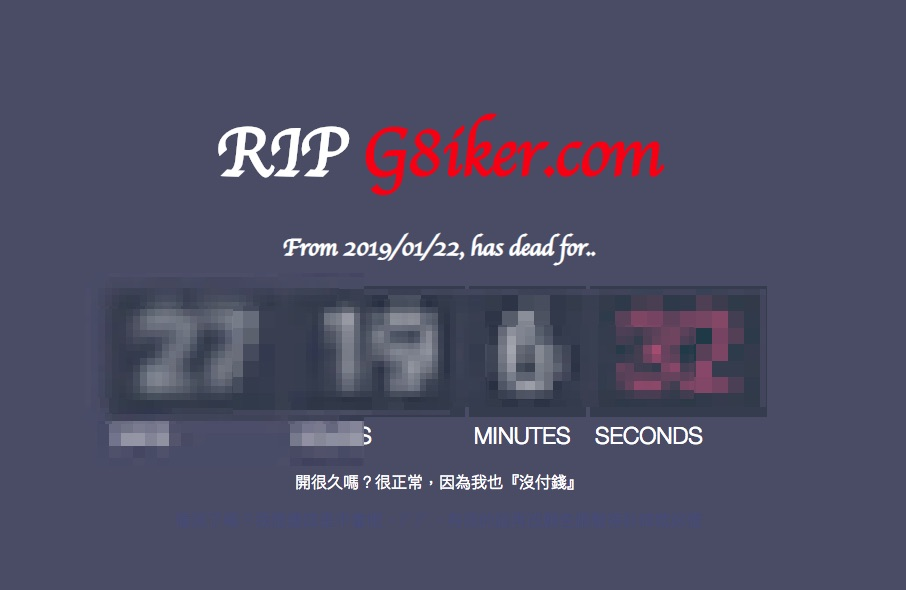
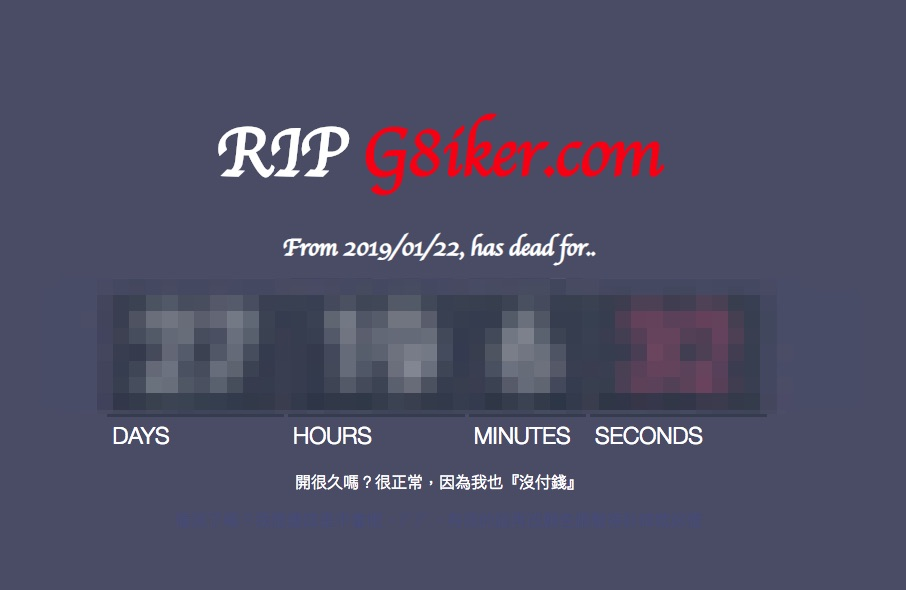
Updates

diff --git a/static/css/main.279497ad.chunk.css b/static/css/main.279497ad.chunk.css
@@ -1,0 +1,2 @@
+#fh-addcal{display:block;color:#fff;height:35px;line-height:35px;margin-bottom:10px;padding-left:40px;background:#78a600 url(//c.tadst.com/gfx/n/i/ical-save.png) 0 no-repeat;font-size:13px;width:100%}.font-serif{font-family:Playfair Display,serif;font-size:63px}.font-cursive{font-family:Lobster Two,cursive}.font-sanserif{font-family:Roboto,sans-serif;font-size:63px}.font-slab{font-family:Roboto Slab,serif;font-size:63px}.font-hand{font-family:Lobster Two,cursive}.csvg{position:relative;background:#f8f8f8}.csvg.fullscreen{position:fixed;top:0;left:0;width:100%;height:100%;z-index:2000}.csvg.fullscreen .csvg-background{height:100%;background-size:contain;background-color:#444}.csvg.fullscreen .csvg-controls .icon-fullscreen.close{display:block}.csvg.fullscreen .csvg-controls .icon-fullscreen.open{display:none}.csvg-counters{display:-webkit-flex;display:flex;-webkit-justify-content:space-between;justify-content:space-between}.csvg-background{width:100%;padding-top:35%;position:relative}.csvg-background img,.csvg-background svg{position:absolute;top:0;left:0;width:100%;height:auto}.csvg-background svg{height:100%}.csvg-background img,.csvg-countdown{bottom:0;margin:auto}.csvg-countdown{position:absolute;top:0;left:0;height:366px;width:100%;text-align:center;color:#fff;-webkit-animation-duration:1s;animation-duration:1s;-webkit-animation-fill-mode:both;animation-fill-mode:both;-webkit-animation-name:fadeIn;animation-name:fadeIn}.csvg-digit{display:-moz-inline-stack;display:inline-block;vertical-align:center;*vertical-align:auto;zoom:1;*display:inline;margin-right:4px}.csvg-digit-number{font-size:107px;padding:3px 29px;background:#38414a;background:rgba(40,50,61,.62);font-family:Roboto,sans-serif;font-weight:300}.csvg-digit[data-tad-bind=seconds] .csvg-digit-number{color:#ee5486}.csvg-digit-label{padding:5px;font-size:23px;text-align:left;text-transform:uppercase}.csvg-title.long{font-size:50px}.csvg-date{font-family:Roboto,sans-serif;font-weight:300;font-size:18px;margin-top:10px;color:#fff;letter-spacing:.5px}.csvg-date a{color:#f8eab9}.csvg.completed .csvg-date span[data-type=until]{color:red}.csvg-controls{position:absolute;top:50px;left:44px;width:56px;height:56px;border-radius:50%;overflow:hidden;z-index:1;background:#ee5486;box-shadow:0 2px 2px 0 rgba(0,0,0,.2);cursor:pointer}.csvg-controls a{display:block;color:#fff}.csvg-controls i{width:100%;height:56px;display:block;background:url(//c.tadst.com/gfx/cd/menu-spr.png) 0 -336px no-repeat #ee5486;z-index:1}.csvg-controls .menu a{color:#454545;position:relative;display:block;padding:20px 0 20px 56px;font-size:16px;font-family:Roboto,sans-serif}.csvg-controls .menu a:before{content:"";width:56px;height:56px;background:url(//c.tadst.com/gfx/cd/menu-spr.png) no-repeat;top:0;left:0;position:absolute}.csvg-controls .menu a:hover{background-color:rgba(0,0,0,.05);text-decoration:none}.csvg-controls .menu .icon-fullscreen:before{background-position:0 0}.csvg-controls .menu .icon-world:before{background-position:0 -56px}.csvg-controls .menu .icon-text:before{background-position:0 -112px}.csvg-controls .menu .icon-demo:before{background-position:0 -168px}.csvg-controls .menu .icon-new:before{background-position:0 -224px}.csvg-controls .menu .icon-edit:before{background-position:0 -280px}.csvg-controls .menu .icon-demo,.csvg-controls .menu .icon-fullscreen.close{display:none}.csvg-controls.show{-webkit-transition:height .2s ease-in,width .2s ease-in,background-color .8s ease-in;transition:height .2s ease-in,width .2s ease-in,background-color .8s ease-in;border-radius:0;background:#fff;width:235px;height:359px;border-bottom:8px solid #ee5486}.csvg-controls.show .menu{display:block}.csvg.hassvg .csvg-controls.show{height:418px}.csvg.hassvg .csvg-controls .icon-demo{display:block}.csvg-controls.show i{-webkit-animation-name:none;animation-name:none}.bg-sect{border-bottom:1px dotted #ccc;background-color:#f8f8f8}#disclaimer{background:#f8f8f8;padding:5px 0;text-align:center}@media only screen and (max-width:64em){.csvg-countdown{height:209px}.csvg-title{font-size:40px}.csvg-title.long{font-size:30px}.csvg-digit-number{font-size:50px}.csvg-digit-label{font-size:12px}}@media only screen and (max-width:37.438em){#disclaimer{padding-top:24px}#disclaimer p{margin:0}#disclaimer p a{display:block}.csvg{padding-top:40px}h1.csvg-title{font-size:50px}.csvg-title.long{font-size:16px}.csvg-date{color:#000;margin-top:0;font-size:12px;display:none}.csvg-date a{color:#556bb5}.csvg-countdown{-webkit-transform:none;transform:none;color:#fff;z-index:1}.csvg-controls{top:0;left:0;width:100%;height:40px;background:#ee5486;border-radius:0;z-index:0}.csvg-controls i{background-position:0 -344px;height:40px}.csvg-controls .menu a{height:40px;padding:12px 0 12px 56px}.csvg-controls .menu a:before{content:"";width:56px;height:40px;margin-top:-8px}.csvg-controls.show{width:100%;height:288px;z-index:1}.csvg-digit{width:25%;margin:0}.hasWeeks .csvg-digit{width:20%;margin:0}.csvg-digit-number{font-size:12vw;padding:3px 4px;background:rgba(40,50,61,.8)}.csvg-digit-label{font-size:12px;text-align:center;color:#000}.csvg-usermsg{color:#000;margin-bottom:5px}.csvg.fullscreen{background:#444}.csvg.fullscreen .csvg-background{position:relative;bottom:auto;height:auto}.csvg.fullscreen .csvg-background img{bottom:auto}.csvg.fullscreen .csvg-date,.csvg.fullscreen .csvg-digit-label,.csvg.fullscreen .csvg-usermsg{color:#fff}.generic .csvg-digit{margin-top:25px}.generic .csvg-countdown{position:absolute;height:auto;margin-top:40px}.generic h1.csvg-title{margin-top:-40px}.generic .csvg-digit-number{background:rgba(40,50,61,.28)}.generic .csvg-date,.generic .csvg-digit-label{color:#fff}.generic .csvg-date a{color:#f8eab9}.generic .csvg-controls.show{z-index:10}.csvg-counters{-webkit-flex-direction:column;flex-direction:column}}.csvg-el__wrap{color:#454545;-webkit-flex-grow:0;flex-grow:0;font-size:24px;padding-left:64px;margin-left:64px;border-left:1px solid #ccc}@media only screen and (min-width:64.063em) and (max-width:90em){.csvg-el__wrap{font-size:22px}}@media only screen and (max-width:64em){.csvg-el__wrap{font-size:18px}}#el_s2{color:#ee5486}.el-item{margin-bottom:12px;white-space:nowrap}.el-item__data{font-weight:700;margin-right:6px}.plain-text .csvg-digit-number{font-size:80px}@media only screen and (min-width:37.5em) and (max-width:64em){.plain-text .csvg-digit-number{font-size:6s0px}}.plain-text .csvg-date,.plain-text .csvg-digit-label,.plain-text .csvg-digit-number,.plain-text .csvg-title{color:#454545;background:none}@media only screen and (min-width:64.063em) and (max-width:90em){.christmas .csvg-date,.christmas .csvg-digit-label{color:#777}.wedding .csvg-digit-label{color:#444}.wedding #el_s1t{color:#c3748e}}@media only screen and (min-width:37.5em) and (max-width:64em){.christmas .csvg-date,.christmas .csvg-digit-label{color:#777}.wedding .csvg-digit-label{color:#444}.wedding #el_s1t{color:#c3748e}}.american-football .csvg-date,.american-football .csvg-digit-label,.basketball .csvg-date,.basketball .csvg-digit-label,.football .csvg-date,.football .csvg-digit-label,.party .csvg-date,.retirement .csvg-date{color:#555}@media only screen and (min-width:90.063em){.election .csvg-date{color:#777}}.csvg-title{font-size:70px;margin:0 auto;overflow:hidden;text-overflow:ellipsis;white-space:nowrap;color:#fff;border:none}body{font-family:HelveticaNeue-Light,Helvetica Neue Light,Helvetica Neue,Helvetica,Arial,Lucida Grande,sans-serif;font-weight:300;font-size:16px;margin:0;padding:0;background:#494c66}.is-alive{color:#434979}a{text-decoration:none;color:red;font-weight:700}img{max-width:100%}nav{width:100%;background:#108db8}nav a{color:#fff;display:inline-block}.content,nav a{padding:1rem}.csvg-seconds{width:38%!important}
+/*# sourceMappingURL=main.279497ad.chunk.css.map */

diff --git a/index.html b/index.html
@@ -1,1 +1,1 @@
-<!doctype html><html lang="en"><head><meta charset="utf-8"/><link rel="shortcut icon" href="/favicon.ico"/><meta name="viewport" content="width=device-width,initial-scale=1,shrink-to-fit=no"/><meta name="theme-color" content="#000000"/><link rel="manifest" href="/manifest.json"/><meta property="og:image" content="https://rip-g8iker.com/screenshot.jpg"/><title>RIP G8iker.com</title><link href="/static/css/main.8d2e15a6.chunk.css" rel="stylesheet"></head><body><noscript>You need to enable JavaScript to run this app.</noscript><a href="https://github.com/zackexplosion/rip-g8iker.com" class="github-corner" aria-label="View source on GitHub"><svg width="80" height="80" viewBox="0 0 250 250" style="fill:#fff;color:#151513;position:absolute;top:0;border:0;right:0" aria-hidden="true"><path d="M0,0 L115,115 L130,115 L142,142 L250,250 L250,0 Z"></path><path d="M128.3,109.0 C113.8,99.7 119.0,89.6 119.0,89.6 C122.0,82.7 120.5,78.6 120.5,78.6 C119.2,72.0 123.4,76.3 123.4,76.3 C127.3,80.9 125.5,87.3 125.5,87.3 C122.9,97.6 130.6,101.9 134.4,103.2" fill="currentColor" style="transform-origin:130px 106px" class="octo-arm"></path><path d="M115.0,115.0 C114.9,115.1 118.7,116.5 119.8,115.4 L133.7,101.6 C136.9,99.2 139.9,98.4 142.2,98.6 C133.8,88.0 127.5,74.4 143.8,58.0 C148.5,53.4 154.0,51.2 159.7,51.0 C160.3,49.4 163.2,43.6 171.4,40.1 C171.4,40.1 176.1,42.5 178.8,56.2 C183.1,58.6 187.2,61.8 190.9,65.4 C194.5,69.0 197.7,73.2 200.1,77.6 C213.8,80.2 216.3,84.9 216.3,84.9 C212.7,93.1 206.9,96.0 205.4,96.6 C205.1,102.4 203.0,107.8 198.3,112.5 C181.9,128.9 168.3,122.5 157.7,114.1 C157.9,116.9 156.7,120.9 152.7,124.9 L141.0,136.5 C139.8,137.7 141.6,141.9 141.8,141.8 Z" fill="currentColor" class="octo-body"></path></svg></a><style>.github-corner:hover .octo-arm{animation:octocat-wave 560ms ease-in-out}@keyframes octocat-wave{0%,100%{transform:rotate(0)}20%,60%{transform:rotate(-25deg)}40%,80%{transform:rotate(10deg)}}@media (max-width:500px){.github-corner:hover .octo-arm{animation:none}.github-corner .octo-arm{animation:octocat-wave 560ms ease-in-out}}</style><div id="root"></div><script>!function(l){function e(e){for(var r,t,n=e[0],o=e[1],u=e[2],f=0,i=[];f<n.length;f++)t=n[f],p[t]&&i.push(p[t][0]),p[t]=0;for(r in o)Object.prototype.hasOwnProperty.call(o,r)&&(l[r]=o[r]);for(s&&s(e);i.length;)i.shift()();return c.push.apply(c,u||[]),a()}function a(){for(var e,r=0;r<c.length;r++){for(var t=c[r],n=!0,o=1;o<t.length;o++){var u=t[o];0!==p[u]&&(n=!1)}n&&(c.splice(r--,1),e=f(f.s=t[0]))}return e}var t={},p={1:0},c=[];function f(e){if(t[e])return t[e].exports;var r=t[e]={i:e,l:!1,exports:{}};return l[e].call(r.exports,r,r.exports,f),r.l=!0,r.exports}f.m=l,f.c=t,f.d=function(e,r,t){f.o(e,r)||Object.defineProperty(e,r,{enumerable:!0,get:t})},f.r=function(e){"undefined"!=typeof Symbol&&Symbol.toStringTag&&Object.defineProperty(e,Symbol.toStringTag,{value:"Module"}),Object.defineProperty(e,"__esModule",{value:!0})},f.t=function(r,e){if(1&e&&(r=f(r)),8&e)return r;if(4&e&&"object"==typeof r&&r&&r.__esModule)return r;var t=Object.create(null);if(f.r(t),Object.defineProperty(t,"default",{enumerable:!0,value:r}),2&e&&"string"!=typeof r)for(var n in r)f.d(t,n,function(e){return r[e]}.bind(null,n));return t},f.n=function(e){var r=e&&e.__esModule?function(){return e.default}:function(){return e};return f.d(r,"a",r),r},f.o=function(e,r){return Object.prototype.hasOwnProperty.call(e,r)},f.p="/";var r=window.webpackJsonp=window.webpackJsonp||[],n=r.push.bind(r);r.push=e,r=r.slice();for(var o=0;o<r.length;o++)e(r[o]);var s=n;a()}([])</script><script src="/static/js/2.063ce5bc.chunk.js"></script><script src="/static/js/main.675c7077.chunk.js"></script></body></html>
+<!doctype html><html lang="en"><head><meta charset="utf-8"/><link rel="shortcut icon" href="/favicon.ico"/><meta name="viewport" content="width=device-width,initial-scale=1,shrink-to-fit=no"/><meta name="theme-color" content="#000000"/><link rel="manifest" href="/manifest.json"/><meta property="og:image" content="https://rip-g8iker.com/screenshot.jpg"/><title>RIP G8iker.com</title><link href="/static/css/main.279497ad.chunk.css" rel="stylesheet"></head><body><noscript>You need to enable JavaScript to run this app.</noscript><a href="https://github.com/zackexplosion/rip-g8iker.com" class="github-corner" aria-label="View source on GitHub"><svg width="80" height="80" viewBox="0 0 250 250" style="fill:#fff;color:#151513;position:absolute;top:0;border:0;right:0" aria-hidden="true"><path d="M0,0 L115,115 L130,115 L142,142 L250,250 L250,0 Z"></path><path d="M128.3,109.0 C113.8,99.7 119.0,89.6 119.0,89.6 C122.0,82.7 120.5,78.6 120.5,78.6 C119.2,72.0 123.4,76.3 123.4,76.3 C127.3,80.9 125.5,87.3 125.5,87.3 C122.9,97.6 130.6,101.9 134.4,103.2" fill="currentColor" style="transform-origin:130px 106px" class="octo-arm"></path><path d="M115.0,115.0 C114.9,115.1 118.7,116.5 119.8,115.4 L133.7,101.6 C136.9,99.2 139.9,98.4 142.2,98.6 C133.8,88.0 127.5,74.4 143.8,58.0 C148.5,53.4 154.0,51.2 159.7,51.0 C160.3,49.4 163.2,43.6 171.4,40.1 C171.4,40.1 176.1,42.5 178.8,56.2 C183.1,58.6 187.2,61.8 190.9,65.4 C194.5,69.0 197.7,73.2 200.1,77.6 C213.8,80.2 216.3,84.9 216.3,84.9 C212.7,93.1 206.9,96.0 205.4,96.6 C205.1,102.4 203.0,107.8 198.3,112.5 C181.9,128.9 168.3,122.5 157.7,114.1 C157.9,116.9 156.7,120.9 152.7,124.9 L141.0,136.5 C139.8,137.7 141.6,141.9 141.8,141.8 Z" fill="currentColor" class="octo-body"></path></svg></a><style>.github-corner:hover .octo-arm{animation:octocat-wave 560ms ease-in-out}@keyframes octocat-wave{0%,100%{transform:rotate(0)}20%,60%{transform:rotate(-25deg)}40%,80%{transform:rotate(10deg)}}@media (max-width:500px){.github-corner:hover .octo-arm{animation:none}.github-corner .octo-arm{animation:octocat-wave 560ms ease-in-out}}</style><div id="root"></div><script>!function(l){function e(e){for(var r,t,n=e[0],o=e[1],u=e[2],f=0,i=[];f<n.length;f++)t=n[f],p[t]&&i.push(p[t][0]),p[t]=0;for(r in o)Object.prototype.hasOwnProperty.call(o,r)&&(l[r]=o[r]);for(s&&s(e);i.length;)i.shift()();return c.push.apply(c,u||[]),a()}function a(){for(var e,r=0;r<c.length;r++){for(var t=c[r],n=!0,o=1;o<t.length;o++){var u=t[o];0!==p[u]&&(n=!1)}n&&(c.splice(r--,1),e=f(f.s=t[0]))}return e}var t={},p={1:0},c=[];function f(e){if(t[e])return t[e].exports;var r=t[e]={i:e,l:!1,exports:{}};return l[e].call(r.exports,r,r.exports,f),r.l=!0,r.exports}f.m=l,f.c=t,f.d=function(e,r,t){f.o(e,r)||Object.defineProperty(e,r,{enumerable:!0,get:t})},f.r=function(e){"undefined"!=typeof Symbol&&Symbol.toStringTag&&Object.defineProperty(e,Symbol.toStringTag,{value:"Module"}),Object.defineProperty(e,"__esModule",{value:!0})},f.t=function(r,e){if(1&e&&(r=f(r)),8&e)return r;if(4&e&&"object"==typeof r&&r&&r.__esModule)return r;var t=Object.create(null);if(f.r(t),Object.defineProperty(t,"default",{enumerable:!0,value:r}),2&e&&"string"!=typeof r)for(var n in r)f.d(t,n,function(e){return r[e]}.bind(null,n));return t},f.n=function(e){var r=e&&e.__esModule?function(){return e.default}:function(){return e};return f.d(r,"a",r),r},f.o=function(e,r){return Object.prototype.hasOwnProperty.call(e,r)},f.p="/";var r=window.webpackJsonp=window.webpackJsonp||[],n=r.push.bind(r);r.push=e,r=r.slice();for(var o=0;o<r.length;o++)e(r[o]);var s=n;a()}([])</script><script src="/static/js/2.063ce5bc.chunk.js"></script><script src="/static/js/main.0b5a6890.chunk.js"></script></body></html>

diff --git a/static/js/main.0b5a6890.chunk.js b/static/js/main.0b5a6890.chunk.js
@@ -1,0 +1,2 @@
+(window.webpackJsonp=window.webpackJsonp||[]).push([[0],{14:function(e,t,a){},15:function(e,t,a){"use strict";a.r(t);var s=a(0),n=a.n(s),i=a(2),c=a.n(i),l=a(3),r=a(4),d=a(6),o=a(5),m=a(7),v=(a(14),function(e){function t(e){var a;return Object(l.a)(this,t),(a=Object(d.a)(this,Object(o.a)(t).call(this,e))).state={ready:!1,days:0,hours:0,minutes:0,seconds:0},a}return Object(m.a)(t,e),Object(r.a)(t,[{key:"componentDidMount",value:function(){var e=this;this.setState({ready:!0}),this.getDistance(),setInterval(function(){e.getDistance()},200)}},{key:"getDistance",value:function(){var e=new Date("2019/01/22").getTime(),t=(new Date).getTime()-e,a=Math.floor(t/864e5),s=Math.floor(t%864e5/36e5),n=Math.floor(t%36e5/6e4),i=Math.floor(t%6e4/1e3);this.setState({days:a,hours:s,minutes:n,seconds:i})}},{key:"render",value:function(){return this.state.ready?n.a.createElement("div",{className:"csvg-countdown hasWeeks"},n.a.createElement("h1",{className:"csvg-title font-cursive","data-tad-bind":"title",title:"Countdown Timer"},"RIP ",n.a.createElement("a",{target:"_blank",href:"https://G8iker.com",rel:"noopener noreferrer"},"G8iker.com")),n.a.createElement("h2",{className:"font-cursive"},"From 2019/01/22, has dead for.."),n.a.createElement("div",{className:"csvg-digit","data-tad-bind":"days"},n.a.createElement("div",{className:"csvg-digit-number",id:"el_dw1"},this.state.days),n.a.createElement("div",{className:"csvg-digit-label",id:"el_dw1t"},"days")),n.a.createElement("div",{className:"csvg-digit","data-tad-bind":"hours"},n.a.createElement("div",{className:"csvg-digit-number",id:"el_h1"},this.state.hours),n.a.createElement("div",{className:"csvg-digit-label",id:"el_h1t"},"hours")),n.a.createElement("div",{className:"csvg-digit","data-tad-bind":"minutes"},n.a.createElement("div",{className:"csvg-digit-number",id:"el_m1"},this.state.minutes),n.a.createElement("div",{className:"csvg-digit-label",id:"el_m1t"},"minutes")),n.a.createElement("div",{className:"csvg-digit","data-tad-bind":"seconds"},n.a.createElement("div",{className:"csvg-digit-number",id:"el_s1"},this.state.seconds),n.a.createElement("div",{className:"csvg-digit-label",id:"el_s1t"},"seconds")),n.a.createElement("p",null,"\u958b\u5f88\u4e45\uff1f\u8f09\u5165\u5f88\u6162\u55ce\uff1f\u5f88\u6b63\u5e38\uff0c\u56e0\u70ba\u6211\u4e5f\u300e\u6c92\u4ed8\u9322\u300f"),n.a.createElement("p",{className:"is-alive"},"\b\u5fa9\u6d3b\u4e86\u55ce\uff1f\u6211\u60f3\u61c9\u8a72\u662f\u4e0d\u6703\u5427\uff0c\u310f\u310f\uff0c\u6709\u6d3b\u7684\u8a71\u518d\u6539\u984f\u8272\u8ddf\u66ab\u505c\u8a08\u6642\u5c31\u597d\u60f9")):n.a.createElement("div",null,"loading")}}]),t}(n.a.Component));Boolean("localhost"===window.location.hostname||"[::1]"===window.location.hostname||window.location.hostname.match(/^127(?:\.(?:25[0-5]|2[0-4][0-9]|[01]?[0-9][0-9]?)){3}$/));c.a.render(n.a.createElement(v,null),document.getElementById("root")),"serviceWorker"in navigator&&navigator.serviceWorker.ready.then(function(e){e.unregister()})},8:function(e,t,a){e.exports=a(15)}},[[8,1,2]]]);
+//# sourceMappingURL=main.0b5a6890.chunk.js.map

diff --git a/precache-manifest.f66b27940127d6bb26cea3ff48a4376b.js b/precache-manifest.f66b27940127d6bb26cea3ff48a4376b.js
@@ -4,19 +4,19 @@ self.__precacheManifest = [
     "url": "/static/js/runtime~main.fdfcfda2.js"
   },
   {
-    "revision": "675c7077094d140fe5bc",
-    "url": "/static/js/main.675c7077.chunk.js"
+    "revision": "0b5a6890833a1181ba8c",
+    "url": "/static/js/main.0b5a6890.chunk.js"
   },
   {
     "revision": "063ce5bc9f8a30d66648",
     "url": "/static/js/2.063ce5bc.chunk.js"
   },
   {
-    "revision": "675c7077094d140fe5bc",
-    "url": "/static/css/main.8d2e15a6.chunk.css"
+    "revision": "0b5a6890833a1181ba8c",
+    "url": "/static/css/main.279497ad.chunk.css"
   },
   {
-    "revision": "30744c68b57191488152672bdb098e6c",
+    "revision": "a9ec706c4e618c13522971fac12ca961",
     "url": "/index.html"
   }
 ];

diff --git a/service-worker.js b/service-worker.js
@@ -14,7 +14,7 @@
 importScripts("https://storage.googleapis.com/workbox-cdn/releases/3.6.3/workbox-sw.js");
 
 importScripts(
-  "/precache-manifest.d6dfdabde8608e707fc5012e826ce55c.js"
+  "/precache-manifest.f66b27940127d6bb26cea3ff48a4376b.js"
 );
 
 workbox.clientsClaim();
